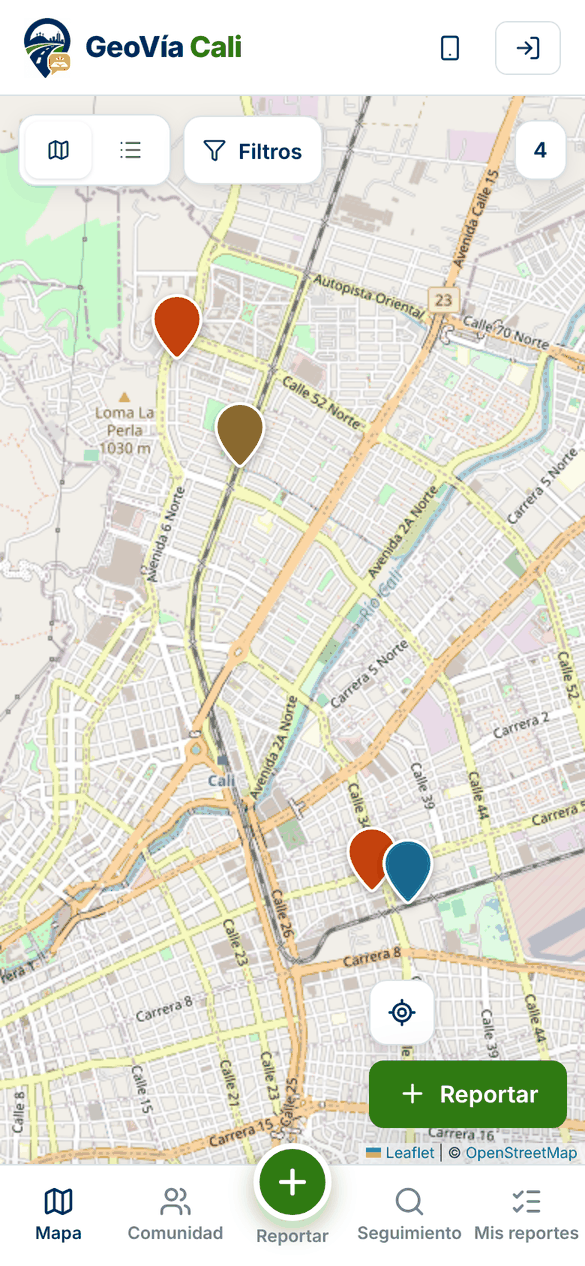
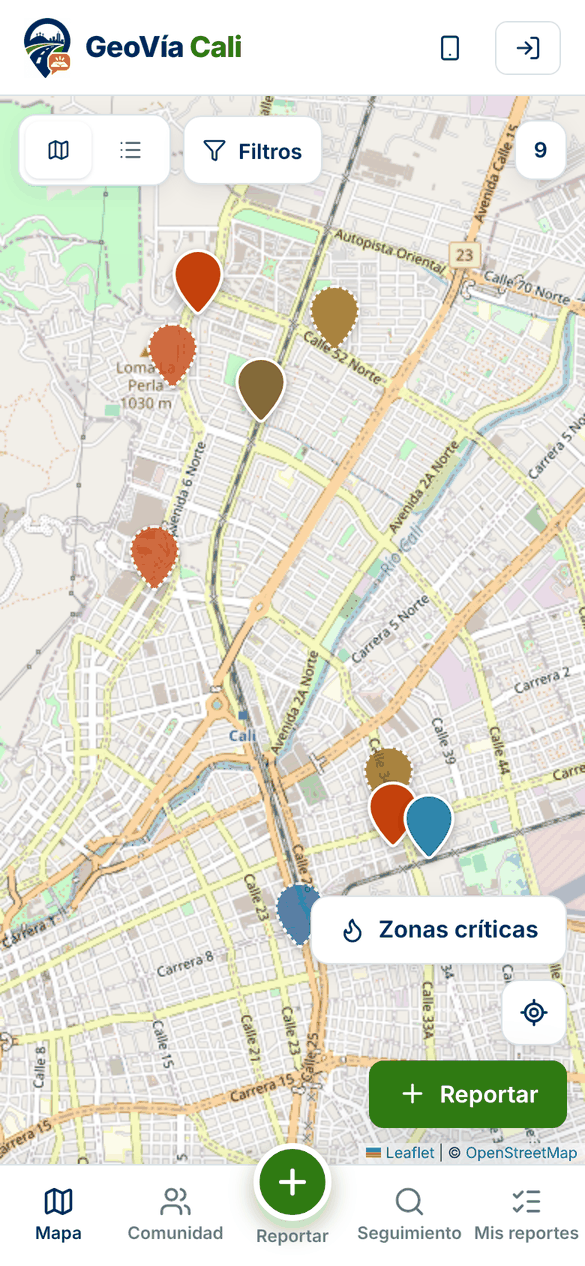
Capturas de producción v1.3: estadísticas, zonas críticas y comunidad

diff --git a/docs/MANUAL_DE_USUARIO.md b/docs/MANUAL_DE_USUARIO.md
@@ -286,6 +286,14 @@ Su ubicación exacta **solo se usa para verificar** que está en el sitio y **no
 
 ### Apoyos, compartir, zonas críticas y estadísticas
 
+<table><tr>
+<td width="33%"><img src="img/26-zonas-criticas.png" alt="Zonas críticas en el mapa"></td>
+<td width="33%"><img src="img/25-estadisticas.png" alt="Estadísticas de la ciudad"></td>
+<td width="33%"><img src="img/18-comunidad.png" alt="Comunidad con apoyos"></td>
+</tr><tr>
+<td>Zonas críticas (mapa de calor)</td><td>Estadísticas de la ciudad</td><td>Apoyos y compartir en la comunidad</td>
+</tr></table>
+
 - **«Yo también lo vi»**: en la comunidad, en la ficha o en el mapa, toque este botón si también ha visto el daño. El número muestra cuántas personas lo respaldan. Tóquelo de nuevo para retirar su apoyo. Los reportes más apoyados suben en la cola de revisión.
 - **Compartir**: el botón con el ícono de compartir abre el menú del celular (WhatsApp, Telegram, correo…) con el enlace del reporte.
 - **Zonas críticas**: en el mapa, toque **Zonas críticas** para ver un mapa de calor que resalta en naranja y rojo dónde se concentran los daños. Tóquelo de nuevo para ocultarlo.

diff --git a/README.md b/README.md
@@ -109,8 +109,8 @@ GeoVía Cali es un proyecto de grado de Ingeniería de Sistemas (UNAD), desarrol
   </tr>
   <tr>
     <td align="center"><img src="docs/img/10-confirmacion.png" width="200"><br><sub>Código de seguimiento</sub></td>
-    <td align="center"><img src="docs/img/12-ficha-reporte.png" width="200"><br><sub>Ficha del reporte</sub></td>
-    <td align="center"><img src="docs/img/13-ficha-historial.png" width="200"><br><sub>Historial de estados</sub></td>
+    <td align="center"><img src="docs/img/25-estadisticas.png" width="200"><br><sub>Estadísticas</sub></td>
+    <td align="center"><img src="docs/img/26-zonas-criticas.png" width="200"><br><sub>Zonas críticas</sub></td>
     <td align="center"><img src="docs/img/18-comunidad.png" width="200"><br><sub>Comunidad</sub></td>
   </tr>
 </table>
